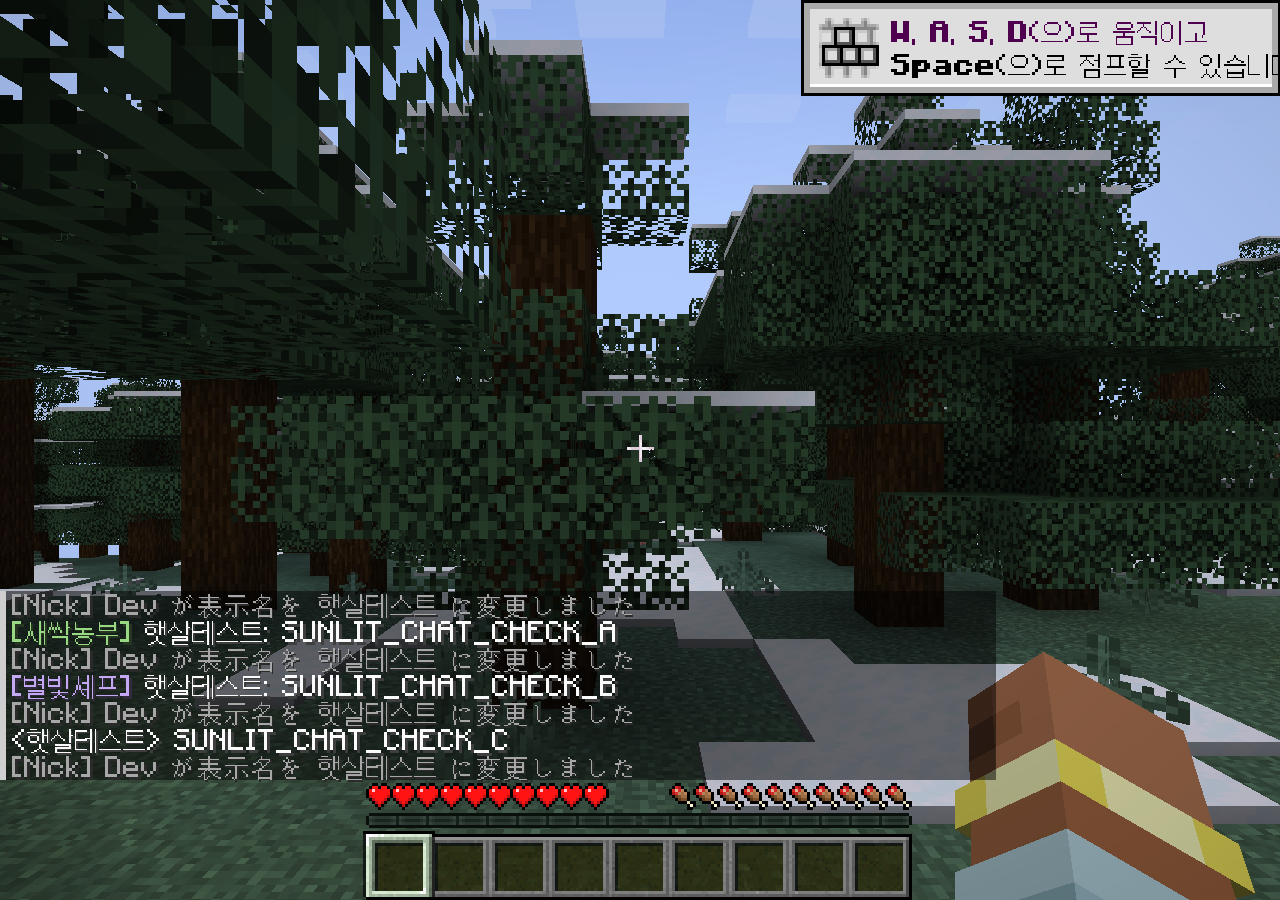
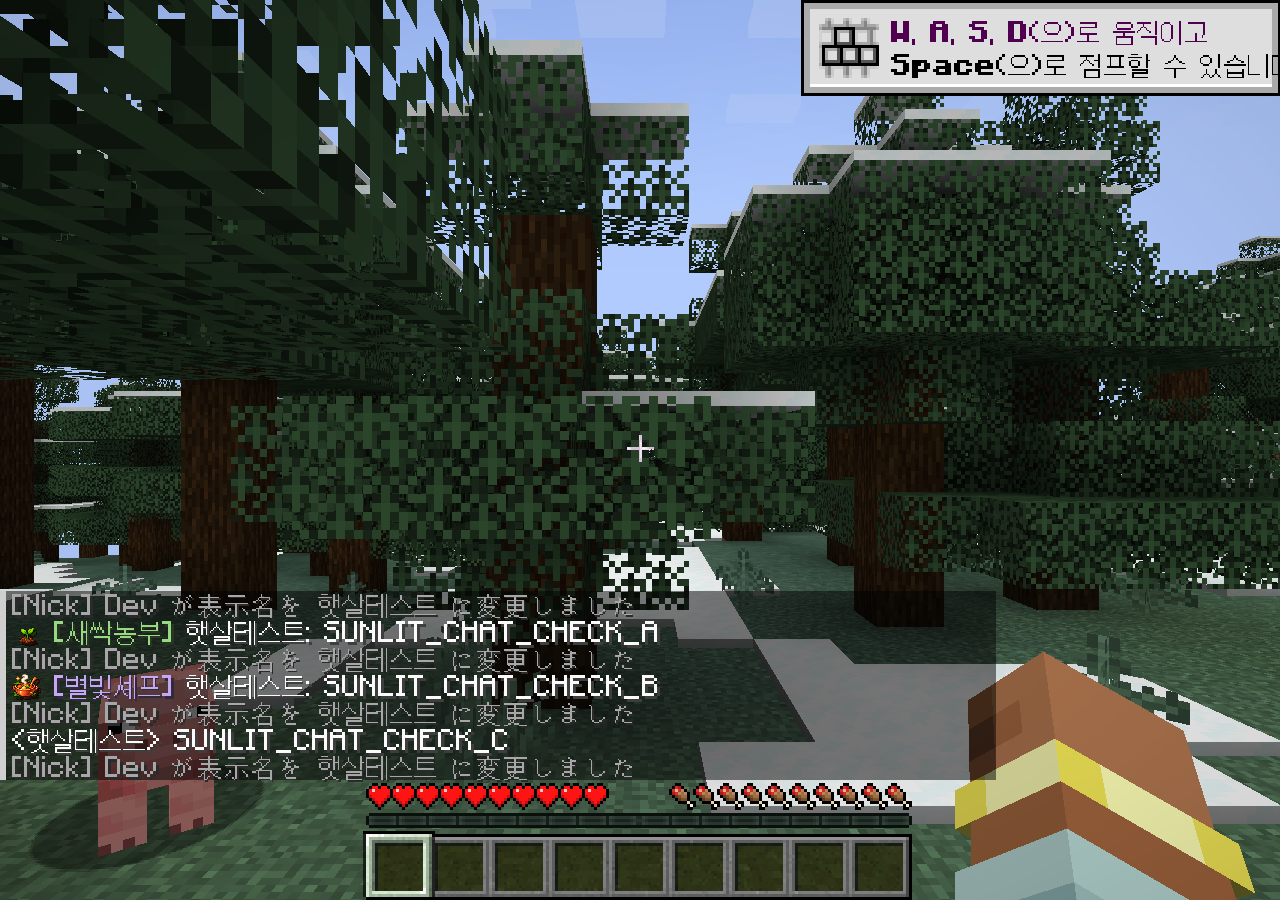
Show equipped title artwork in chat with distinct progression tier badges

diff --git a/tools/visual-preview/ChatTierCheck.java b/tools/visual-preview/ChatTierCheck.java
@@ -1,0 +1,64 @@
+package dev.sunlit.journal;
+
+import net.minecraft.client.*;
+import net.minecraft.client.gui.components.Button;
+import net.minecraft.client.gui.screens.ChatScreen;
+import net.minecraft.network.chat.*;
+import net.minecraftforge.api.distmarker.Dist;
+import net.minecraftforge.fml.common.Mod;
+import net.minecraftforge.event.TickEvent;
+import net.minecraftforge.eventbus.api.SubscribeEvent;
+import net.minecraftforge.client.event.ClientChatReceivedEvent;
+import java.util.*;
+import java.util.concurrent.CompletableFuture;
+
+/** Test-world-only real equip/chat packet check, excluded from the release JAR. */
+@Mod.EventBusSubscriber(modid=SunlitJournal.MODID,value=Dist.CLIENT)
+public final class ChatTierCheck {
+    private static int phase,index,ticks;
+    private static long start;
+    private static CompletableFuture<Void> pending;
+    private static final Map<String,Integer> received=new HashMap<>();
+    private static void require(boolean ok,String reason){if(!ok)throw new IllegalStateException("CHAT_TIER_CHECK: "+reason);}
+    private static String token(String title){return "단계 확인 · "+title;}
+    @SubscribeEvent public static void chat(ClientChatReceivedEvent e){
+        if(!Boolean.getBoolean("sunlit.chatTierCheck"))return;
+        String plain=e.getMessage().getString();
+        for(String title:SunlitJournal.TITLES)if(plain.endsWith(token(title))){
+            require(plain.startsWith(TitleIcons.glyph(title)+" ["+title+"] 햇살테스트: "),"Wrong delivered title/nickname prefix");
+            final boolean[] image={false},color={false};
+            e.getMessage().visit((style,text)->{
+                if(text.contains(TitleIcons.glyph(title))&&style.getFont().equals(TitleIcons.FONT)&&style.getColor()!=null&&style.getColor().getValue()==0xFFFFFF)image[0]=true;
+                if(text.contains("["+title+"]")&&style.getColor()!=null&&style.getColor().getValue()==TitleThemes.color(title,true))color[0]=true;
+                return Optional.empty();
+            },Style.EMPTY);
+            require(image[0]&&color[0],"Image font or title color missing after network delivery");received.merge(title,1,Integer::sum);
+        }
+        if(plain.endsWith("칭호 해제 확인")){require(plain.startsWith("<햇살테스트>"),"Untitled nickname handler changed");require(plain.codePoints().noneMatch(c->c>=0xE200&&c<0xE21D),"Unequip retained artwork");received.merge("none",1,Integer::sum);}
+    }
+    @SubscribeEvent public static void label(net.minecraftforge.client.event.ScreenEvent.Render.Post e){
+        if(Boolean.getBoolean("sunlit.chatTierCheck")&&e.getScreen() instanceof ChatScreen)e.getGuiGraphics().drawString(Minecraft.getInstance().font,"채팅 배지 검증 · 전용 테스트 월드 · 실제 장착/채팅 패킷",8,8,0xFFFFE7A0,false);
+    }
+    private static void shot(Minecraft mc,String name){Screenshot.grab(new java.io.File(System.getProperty("sunlit.previewOutput","../validation")),name+".png",mc.getMainRenderTarget(),c->{});}
+    @SubscribeEvent public static void tick(TickEvent.ClientTickEvent e){
+        if(e.phase!=TickEvent.Phase.END||!Boolean.getBoolean("sunlit.chatTierCheck"))return;
+        if(start==0)start=System.currentTimeMillis();require(System.currentTimeMillis()-start<300000,"Timeout at "+phase+"/"+index);
+        var mc=Minecraft.getInstance();
+        if(mc.player==null){if(mc.screen!=null)for(var child:mc.screen.children())if(child instanceof Button b&&b.active&&b.getMessage().getString().equals("진행")){b.onPress();break;}return;}
+        if(mc.getSingleplayerServer()==null||mc.getOverlay()!=null)return;++ticks;mc.getToasts().clear();
+        switch(phase){
+            case 0 -> {if(ticks<30)return;mc.options.guiScale().set(3);mc.options.chatScale().set(1.0);mc.options.chatOpacity().set(1.0);mc.options.chatHeightFocused().set(1.0);mc.resizeDisplay();
+                pending=new CompletableFuture<>();var id=mc.player.getUUID();mc.getSingleplayerServer().execute(()->{try{var p=mc.getSingleplayerServer().getPlayerList().getPlayer(id);SunlitJournal.saveOwned(p,new LinkedHashSet<>(Arrays.asList(SunlitJournal.TITLES)));SunlitJournal.data(p).remove("equipped");Integrations.nick(p,"햇살테스트",false);pending.complete(null);}catch(Throwable t){pending.completeExceptionally(t);}});phase=1;ticks=0;}
+            case 1 -> {if(!pending.isDone())return;pending.join();mc.setScreen(new ChatScreen(""));JournalNetwork.CHANNEL.sendToServer(new JournalNetwork.Request("equip",SunlitJournal.TITLES[index]));phase=2;ticks=0;}
+            case 2 -> {if(ticks<10)return;mc.player.connection.sendChat(token(SunlitJournal.TITLES[index]));phase=3;ticks=0;}
+            case 3 -> {if(ticks<20)return;String title=SunlitJournal.TITLES[index];require(received.getOrDefault(title,0)==1,"Missing or duplicate chat for "+title);index++;
+                if(index==29||index<=24&&index%4==0){phase=4;ticks=0;}else {phase=1;ticks=0;}}
+            case 4 -> {if(ticks<12)return;String name=index==29?"seasons":new String[]{"farming","fishing","mining","cooking","ranching","wealth"}[index/4-1];shot(mc,"chat-tiers-"+name);
+                if(index<29){phase=1;ticks=0;}else{JournalNetwork.CHANNEL.sendToServer(new JournalNetwork.Request("equip",SunlitJournal.TITLES[28]));phase=5;ticks=0;}}
+            case 5 -> {if(ticks<10)return;mc.player.connection.sendChat("칭호 해제 확인");phase=6;ticks=0;}
+            case 6 -> {if(ticks<20)return;require(received.getOrDefault("none",0)==1,"Unequipped delivery missing/duplicated");shot(mc,"chat-tiers-unequipped");mc.options.guiScale().set(2);mc.resizeDisplay();phase=7;ticks=0;}
+            case 7 -> {if(ticks<15)return;shot(mc,"chat-tiers-scale2");com.mojang.logging.LogUtils.getLogger().info("CHAT_TIER_CHECK PASS: all 29 title images via actual equip and chat packets, 6 families x 4 tiers plus 5 seasonal titles, white bitmap icons and themed text, one delivery, unequip, GUI scales 2/3");phase=8;ticks=0;}
+            case 8 -> {if(ticks>10)mc.stop();}
+        }
+    }
+}

diff --git a/src/test/java/dev/sunlit/journal/JournalGameTests.java b/src/test/java/dev/sunlit/journal/JournalGameTests.java
@@ -190,12 +190,12 @@ public class JournalGameTests {
         d.putString("owned","새싹농부|별빛셰프");
         var body=net.minecraft.network.chat.Component.literal("안녕하세요").withStyle(net.minecraft.ChatFormatting.AQUA);
         var line=JournalChat.format(p,body).orElseThrow();
-        h.assertTrue(line.getString().equals("[새싹농부] "+p.getDisplayName().getString()+": 안녕하세요"),"Title/name/body order incorrect");
-        h.assertTrue(line.getSiblings().get(0).getStyle().getColor().getValue()==TitleThemes.color("새싹농부",true),"Chat title color missing");
+        h.assertTrue(line.getString().equals(TitleIcons.glyph("새싹농부")+" [새싹농부] "+p.getDisplayName().getString()+": 안녕하세요"),"Title/name/body order incorrect");
+        h.assertTrue(line.getSiblings().get(2).getStyle().getColor().getValue()==TitleThemes.color("새싹농부",true),"Chat title color missing");
         h.assertTrue(line.getSiblings().get(line.getSiblings().size()-1).getStyle().equals(body.getStyle()),"Title theme leaked into message body");
         h.assertTrue(body.getString().equals("안녕하세요"),"Formatting mutated original message");
         d.putString("equipped","별빛셰프");
-        h.assertTrue(JournalChat.format(p,body).orElseThrow().getString().startsWith("[별빛셰프]"),"New equipped title not used immediately");
+        h.assertTrue(JournalChat.format(p,body).orElseThrow().getString().startsWith(TitleIcons.glyph("별빛셰프")+" [별빛셰프]"),"New equipped title not used immediately");
         d.remove("equipped");h.assertTrue(JournalChat.format(p,body).isEmpty(),"Unequipped title still displayed");h.succeed();
     }
 
@@ -250,7 +250,7 @@ public class JournalGameTests {
                 try{
                     Integrations.nick(p,"햇살테스트",false);
                     var formatted=JournalChat.format(p,net.minecraft.network.chat.Component.literal("안녕!")).orElseThrow();
-                    h.assertTrue(formatted.getString().equals("[새싹농부] 햇살테스트: 안녕!"),"Actual nickname not retained in themed chat");
+                    h.assertTrue(formatted.getString().equals(TitleIcons.glyph("새싹농부")+" [새싹농부] 햇살테스트: 안녕!"),"Actual nickname not retained in themed chat");
                     var event=new net.minecraftforge.event.ServerChatEvent(p,"안녕!",net.minecraft.network.chat.Component.literal("안녕!"));
                     net.minecraftforge.common.MinecraftForge.EVENT_BUS.post(event);
                     h.assertTrue(event.isCanceled(),"Titled chat fell through to duplicate nickname handler");
@@ -376,6 +376,30 @@ public class JournalGameTests {
         h.assertTrue(copied.getString("equipped").equals("벚꽃요정")&&copied.getLong("extra")==100,"Clone lost valid equip or unrelated record");
         var saved=copied.copy();replacement.getPersistentData().put("SunlitJournalTitles",saved.copy());h.assertTrue(SunlitJournal.data(replacement).equals(saved),"Reload changed migrated titles");
         h.assertTrue(original.getPersistentData().getCompound("SunlitJournalTitles").getString("owned").equals("벚꽃요정"),"Original retained retired records after clone");h.succeed();
+    }
+
+    @GameTest(template="empty") public static void chatArtworkSurvivesComponentNetworkCodec(GameTestHelper h){
+        var p=player(h);SunlitJournal.saveOwned(p,new LinkedHashSet<>(Arrays.asList(SunlitJournal.TITLES)));
+        var assets=new HashSet<String>();var glyphs=new HashSet<String>();
+        for(String title:SunlitJournal.TITLES){
+            SunlitJournal.data(p).putString("equipped",title);var body=net.minecraft.network.chat.Component.literal("그림 채팅").withStyle(net.minecraft.ChatFormatting.AQUA);
+            var line=JournalChat.format(p,body).orElseThrow();var buf=new FriendlyByteBuf(Unpooled.buffer());
+            try{buf.writeComponent(line);var decoded=buf.readComponent();
+                h.assertTrue(decoded.getString().startsWith(TitleIcons.glyph(title)+" ["+title+"] "),"Title image or text lost during network encoding");
+                var icon=decoded.getSiblings().get(0);h.assertTrue(icon.getStyle().getFont().equals(TitleIcons.FONT)&&icon.getStyle().getColor().getValue()==0xFFFFFF,"Image font lost or title tint applied to artwork");
+                h.assertTrue(!decoded.getSiblings().get(decoded.getSiblings().size()-1).getStyle().getFont().equals(TitleIcons.FONT),"Image font leaked into message");
+                h.assertTrue(body.getString().equals("그림 채팅"),"Decoration mutated message");
+            }finally{buf.release();}
+            assets.add(TitleIcons.asset(title));glyphs.add(TitleIcons.glyph(title));
+        }
+        h.assertTrue(assets.size()==29&&glyphs.size()==29,"Some titles share a tier image or glyph");h.succeed();
+    }
+    @GameTest(template="empty") public static void equippedTierImmediatelyChangesChatArtwork(GameTestHelper h){
+        var p=player(h);SunlitJournal.saveOwned(p,new LinkedHashSet<>(Arrays.asList(SunlitJournal.TITLES)));var images=new HashSet<String>();
+        for(int i=0;i<4;i++){String name=SunlitJournal.TITLES[i];SunlitJournal.data(p).putString("equipped",name);var line=JournalChat.format(p,net.minecraft.network.chat.Component.literal("단계 변경")).orElseThrow();images.add(line.getSiblings().get(0).getString());}
+        h.assertTrue(images.size()==4,"Equipped tier did not change image");
+        SunlitJournal.data(p).remove("equipped");h.assertTrue(JournalChat.format(p,net.minecraft.network.chat.Component.literal("해제")).isEmpty(),"Unequipped player still had an image");
+        SunlitJournal.saveOwned(p,Set.of("새싹농부"));SunlitJournal.data(p).putString("equipped","풍년지기");h.assertTrue(JournalChat.format(p,net.minecraft.network.chat.Component.literal("미획득")).isEmpty(),"Unowned tier image accepted");h.succeed();
     }
 
 }

diff --git a/tools/visual-preview/JournalInputChatCheck.java b/tools/visual-preview/JournalInputChatCheck.java
@@ -61,11 +61,13 @@ public final class JournalInputChatCheck {
     private static void received(String token,String prefix,String title){
         var list=RECEIVED.getOrDefault(token,List.of());
         require(list.size()==1,"Expected one chat delivery for "+token+", got "+list.size());
-        var component=list.get(0);require(component.getString().startsWith(prefix),"Unexpected chat prefix: "+component.getString());
+        var component=list.get(0);require(component.getString().startsWith((title.isEmpty()?"":TitleIcons.glyph(title)+" ")+prefix),"Unexpected chat prefix: "+component.getString());
         if(!title.isEmpty()){
             final boolean[] found={false};
             component.visit((style,text)->{if(text.contains(title)&&style.getColor()!=null&&style.getColor().getValue()==TitleThemes.color(title,true))found[0]=true;return Optional.empty();},net.minecraft.network.chat.Style.EMPTY);
             require(found[0],"Title color missing after real network delivery");
+            final boolean[] image={false};component.visit((style,text)->{if(text.contains(TitleIcons.glyph(title))&&style.getFont().equals(TitleIcons.FONT)&&style.getColor()!=null&&style.getColor().getValue()==0xFFFFFF)image[0]=true;return Optional.empty();},net.minecraft.network.chat.Style.EMPTY);
+            require(image[0],"Title image missing after real network delivery");
         }
     }
     @SubscribeEvent public static void tick(TickEvent.ClientTickEvent event)throws ReflectiveOperationException {
@@ -112,7 +114,7 @@ public final class JournalInputChatCheck {
             case 11 -> {
                 if(ticks<25)return;require(RECEIVED.getOrDefault(TOKENS[3],List.of()).isEmpty(),"Pre-cancelled chat was published");
                 if(mc.screen!=null)mc.screen.onClose();
-                com.mojang.logging.LogUtils.getLogger().info("SUNLIT_INPUT_CHAT_CHECK PASS: air gesture, block/entity exclusions, rebindable key, real profile snapshots, one chat delivery, nickname, title change/unequip, network colors and prior-cancellation handling");
+                com.mojang.logging.LogUtils.getLogger().info("SUNLIT_INPUT_CHAT_CHECK PASS: air gesture, block/entity exclusions, rebindable key, real profile snapshots, one chat delivery, nickname, title change/unequip, network colors, title images and prior-cancellation handling");
                 phase=12;ticks=0;
             }
             case 12 -> {

diff --git a/tools/build_title_badges.py b/tools/build_title_badges.py
@@ -1,0 +1,29 @@
+"""Extract the authored tier atlas and register inline chat bitmap glyphs.
+Only mechanical cropping, padding and nearest-neighbour sizing are applied.
+"""
+from pathlib import Path
+from PIL import Image
+import json
+root=Path(__file__).resolve().parents[1]
+assets=root/'src/main/resources/assets/sunlit_journal_core'
+out=assets/'textures/gui/title_badges';out.mkdir(parents=True,exist_ok=True)
+im=Image.open(root/'tools/art-sources/title-tier-badges.png').convert('RGBA')
+fields=['farming','fishing','mining','cooking','ranching','wealth']
+rows=[(0,280),(280,520),(520,746),(746,1024)]
+for row,(top,bottom) in enumerate(rows):
+ for col,name in enumerate(fields):
+  tile=im.crop((col*im.width//6,top,(col+1)*im.width//6,bottom))
+  side=max(tile.size);square=Image.new('RGBA',(side,side));square.paste(tile,((side-tile.width)//2,(side-tile.height)//2))
+  square.resize((256,256),Image.Resampling.NEAREST).save(out/(name+'_'+str(row+1)+'.png'))
+names=[name+'_'+str(tier) for name in fields for tier in range(1,5)]
+for name in ['four_seasons','spring','summer','autumn','winter']:
+ im=Image.open(assets/'textures/gui/illustrations'/(name+'.png'));im.save(out/(name+'.png'));names.append(name)
+# Pack small glyphs into one bitmap sheet so chat does not need 29 full-size font textures.
+chat=Image.new('RGBA',(256,128))
+for i,name in enumerate(names):
+ tile=Image.open(out/(name+'.png')).resize((32,32),Image.Resampling.NEAREST)
+ chat.paste(tile,((i%8)*32,(i//8)*32))
+chat_path=assets/'textures/font/title_chat_badges.png';chat_path.parent.mkdir(parents=True,exist_ok=True);chat.save(chat_path)
+chars=[chr(0xE200+i) for i in range(len(names))]+['\x00']*(32-len(names))
+font=assets/'font/chat_titles.json';font.parent.mkdir(parents=True,exist_ok=True)
+font.write_text(json.dumps({'providers':[{'type':'bitmap','file':'sunlit_journal_core:font/title_chat_badges.png','height':9,'ascent':8,'chars':[''.join(chars[i:i+8]) for i in range(0,32,8)]}]},ensure_ascii=False,indent=2)+'\n')

diff --git a/src/main/java/dev/sunlit/journal/TitleIcons.java b/src/main/java/dev/sunlit/journal/TitleIcons.java
@@ -1,0 +1,25 @@
+package dev.sunlit.journal;
+
+import java.util.Arrays;
+import net.minecraft.network.chat.Component;
+import net.minecraft.network.chat.HoverEvent;
+import net.minecraft.network.chat.MutableComponent;
+import net.minecraft.resources.ResourceLocation;
+
+/** Server-safe title artwork keys and bitmap-font glyphs. No changes to title ownership or tiers. */
+public final class TitleIcons {
+    private TitleIcons() {}
+    public static final ResourceLocation FONT=new ResourceLocation(SunlitJournal.MODID,"chat_titles");
+    private static final String[] FIELDS={"farming","fishing","mining","cooking","ranching","wealth"};
+    private static final String[] SEASONS={"four_seasons","spring","summer","autumn","winter"};
+    private static int index(String title){return Arrays.asList(SunlitJournal.TITLES).indexOf(title);}
+    public static String asset(String title){int i=index(title);return i<0?"":i<24?FIELDS[i/4]+"_"+(i%4+1):SEASONS[i-24];}
+    public static String glyph(String title){int i=index(title);return i<0?"":Character.toString(0xE200+i);}
+    public static int tier(String title){int i=index(title);return i>=0&&i<24?i%4+1:0;}
+    public static ResourceLocation texture(String title){return new ResourceLocation(SunlitJournal.MODID,"textures/gui/title_badges/"+asset(title)+".png");}
+    public static MutableComponent icon(String title){
+        String hint=title+(tier(title)>0?" · "+tier(title)+"단계":"");
+        return Component.literal(glyph(title)).withStyle(s->s.withFont(FONT).withColor(0xFFFFFF).withBold(false).withItalic(false)
+            .withHoverEvent(new HoverEvent(HoverEvent.Action.SHOW_TEXT,Component.literal(hint))));
+    }
+}

diff --git a/src/main/java/dev/sunlit/journal/JournalScreen.java b/src/main/java/dev/sunlit/journal/JournalScreen.java
@@ -311,6 +311,12 @@ public final class JournalScreen extends Screen {
         com.mojang.blaze3d.systems.RenderSystem.disableBlend();
     }
     private void icon(GuiGraphics g,int index,int x,int y){art(g,index,x,y,28);}
+    private void cardArt(GuiGraphics g,Card c,int x,int y,int size){
+        if(!TitleThemes.known(c.title)){art(g,c.icon,x,y,size);return;}
+        com.mojang.blaze3d.systems.RenderSystem.enableBlend();
+        g.blit(TitleIcons.texture(c.title),x,y,size,size,0,0,256,256,256,256);
+        com.mojang.blaze3d.systems.RenderSystem.disableBlend();
+    }
     @Override public void render(GuiGraphics g,int mx,int my,float delta){
         renderBackground(g);
         rounded(g,left+3,top+4,panelWidth,panelHeight,15,0x803E353D);
@@ -355,8 +361,8 @@ public final class JournalScreen extends Screen {
             g.fill(x+2,y+5,x+5,y+c.height-5,accents[Math.max(0,Math.min(c.icon,accents.length-1))]);
             if(c.illustrated){
                 rounded(g,x+9,y+8,c.artSize+4,c.artSize+4,3,0xFFF0DFBA);
-                art(g,c.icon,x+11,y+10,c.artSize);
-            }else icon(g,c.icon,x+10,y+10);
+                cardArt(g,c,x+11,y+10,c.artSize);
+            }else cardArt(g,c,x+10,y+10,28);
             if(c.section){
                 int textY=y+10;
                 for(var line:c.heading){g.drawString(font,line,x+47,textY,TEXT,false);textY+=lineStep;}

diff --git a/src/main/java/dev/sunlit/journal/JournalNetwork.java b/src/main/java/dev/sunlit/journal/JournalNetwork.java
@@ -12,7 +12,7 @@ import net.minecraftforge.network.simple.SimpleChannel;
 import java.util.*;
 
 public final class JournalNetwork {
-    public static final SimpleChannel CHANNEL=NetworkRegistry.newSimpleChannel(new ResourceLocation(SunlitJournal.MODID,"journal"),()->"journal-9", "journal-9"::equals,"journal-9"::equals);
+    public static final SimpleChannel CHANNEL=NetworkRegistry.newSimpleChannel(new ResourceLocation(SunlitJournal.MODID,"journal"),()->"journal-10", "journal-10"::equals,"journal-10"::equals);
     private static final Map<UUID,Long> WATCHING=new HashMap<>(), LAST=new HashMap<>(), HEARTBEATS=new HashMap<>();
     private static final Set<String> PAGES=Set.of("profile","skills","quests","achievements","titles");
     public record Request(String action,String value){

diff --git a/src/main/java/dev/sunlit/journal/JournalChat.java b/src/main/java/dev/sunlit/journal/JournalChat.java
@@ -24,7 +24,7 @@ public final class JournalChat {
         return player.getDisplayName().copy();
     }
     static Optional<Component> format(ServerPlayer player,Component message){
-        return equipped(player).map(title->Component.empty().append(TitleThemes.badge(title)).append(" ")
+        return equipped(player).map(title->Component.empty().append(TitleIcons.icon(title)).append(" ").append(TitleThemes.badge(title)).append(" ")
             .append(nickname(player)).append(Component.literal(": ").withStyle(s->s.withColor(0xFFFFFF))).append(message.copy()));
     }
     // Server Nick 1.2.0 cancels and broadcasts at NORMAL. Run before it so a titled

diff --git a/CHAT_TITLE_IMAGES_0.8.5.md b/CHAT_TITLE_IMAGES_0.8.5.md
@@ -1,0 +1,44 @@
+# 0.8.5-journal · 장착 칭호의 채팅 이미지와 단계별 그림
+
+현재 장착한 대표 칭호에 맞는 작은 그림을 채팅 닉네임 앞에 표시합니다.
+
+`그림 [색상이 적용된 칭호] 닉네임: 채팅 내용`
+
+칭호를 바꾸면 해당 그림으로 바뀌고, 해제하면 그림과 칭호 접두사가 함께 사라집니다. 미획득 칭호의 이미지가 표시되지 않도록 기존 서버 소유 검사를 유지합니다. 최상위 칭호를 보유했더라도 하위 칭호를 직접 장착하면 장착한 하위 단계의 그림이 표시됩니다.
+
+## 단계별 이미지
+
+기존 농사·낚시·채광·요리·목축·자산 6개 분야의 칭호 4단계에 각각 다른 그림을 배정했습니다. 단순 색상 변경 대신 소품·실루엣·장식이 성장합니다.
+
+| 분야 | 1단계 | 2단계 | 3단계 | 4단계 |
+|---|---|---|---|---|
+| 농사 | 새싹 | 밀 이삭 | 밀·꽃·물방울 | 왕관 수확 바구니 |
+| 낚시 | 작은 물고기 | 뛰어오르는 물고기 | 물고기·진주·물결 | 왕관 물고기·월계수 |
+| 채광 | 돌·곡괭이 | 보라 수정·곡괭이 | 여러 보석·곡괭이 | 금빛 별 테두리의 큰 수정 |
+| 요리 | 수프 그릇·숟가락 | 구리 냄비 | 풍성한 채소 요리 | 금장식 냄비 |
+| 목축 | 송아지 | 종·클로버의 소 | 꽃에 둘러싸인 소 | 왕관·꽃 화관의 소 |
+| 자산 | 동전 | 동전 주머니 | 보물 상자 | 왕관·보석 장식 상자 |
+
+사계요정은 기존 네 계절 요정 그림, 봄·여름·가을·겨울 칭호는 각 계절 그림을 사용합니다. 이 5종에 임의의 단계를 새로 만들지 않았습니다. 총 29개 칭호에 각각 대응하는 그림/폰트 문자가 있습니다. 칭호 도감과 업적 도감의 표식도 동일한 단계별 그림을 사용합니다.
+
+## 적용 범위
+
+- 이미지용 글꼴을 별도로 사용하므로 닉네임·메시지의 기존 글꼴과 색을 바꾸지 않습니다. 이미지에는 칭호 글자색이 덧씌워지지 않습니다. 기본 채팅 줄 높이에 맞춘 9픽셀 높이 배지입니다.
+- 게임 리소스에 글꼴과 이미지를 포함하므로 별도 리소스팩 설치가 필요하지 않습니다. 채팅 창에서 그림에 마우스를 올리면 칭호와 단계를 볼 수 있습니다.
+- 프로토콜은 `journal-10`입니다. 폰트 리소스가 없는 구버전 클라이언트에서 깨진 문자가 보이지 않도록 서버와 클라이언트를 함께 0.8.5로 교체해야 합니다.
+- 획득 조건·진행도·보상·기존 데이터는 바꾸지 않았습니다. 이전 하늘섬 칭호 2종 제거 정책도 유지합니다.
+- 새 제작 시트는 `tools/art-sources/title-tier-badges.png`이며 게임 화면이 아닙니다. `tools/build_title_badges.py`가 기계적으로 추출한 256×256 그림 29개와 채팅용 32픽셀 셀의 작은 폰트 시트를 생성합니다.
+
+## 이번 버전 검증
+
+- 빌드 성공, 제공된 실제 연동 모드 3개를 로드한 서버 GameTest 33개 전부 통과. 29개 칭호 이미지/테마 색의 채팅 컴포넌트 직렬화·역직렬화, 장착 단계 변경, 해제/미획득 상태의 이미지 미표시를 포함합니다.
+- 실제 Minecraft 클라이언트와 전용 통합 서버에서 29개 칭호를 실제 장착 패킷으로 바꾸고 채팅을 전송했습니다. 각 이미지·색·닉네임·단계·1회 전달과 해제를 확인했습니다. GUI 2/3 촬영을 포함합니다.
+- 기존 입력·채팅 통합 검사도 다시 통과했습니다. 쉬프트 허공 우클릭/단축키·프로필 수신·닉네임·칭호 변경/해제·채팅 중복 방지·선행 채팅 취소를 확인했습니다.
+- `chat-tiers-*.png`는 **실제 장착/채팅 패킷을 사용해 Minecraft에서 촬영한 화면**입니다. 전용 테스트 월드에서 미리 칭호 소유 상태를 준비했고 테스트 도구가 메시지를 보냈습니다. 모든 칭호를 정상 플레이로 달성했다는 의미는 아닙니다. 전체 사용자 모드팩·인터넷 멀티플레이 검증과 구분합니다.
+- 테스트 도구와 대체 아이템은 배포 JAR에 포함하지 않습니다.
+
+```sh
+./gradlew -PintegrationMods=true -PintegrationModDir=/path/to/mods -I tools/visual-preview/chat-tier-check.gradle runClient
+```
+
+위 도구는 실제 플레이 월드에서 사용하지 마세요. 검사 전용 `SunlitInputTest` 월드의 칭호·닉네임을 변경합니다.

diff --git a/README_JOURNAL_ONLY.md b/README_JOURNAL_ONLY.md
@@ -1,4 +1,4 @@
-# Sunlit Journal 0.8.4-journal · Forge 1.20.1
+# Sunlit Journal 0.8.5-journal · Forge 1.20.1
 
 수첩 전용 버전입니다. main 4cedc92에서 분기했으며 preview/sakura-reference의 스킨 변경은 합치지 않았습니다.
 
@@ -33,7 +33,7 @@
 - 기존 장비는 바닐라 외형으로 보이지만 아이템·내구도·인챈트·이름·저장 태그는 보존합니다. 구버전 리소스팩을 별도로 적용하면 그 리소스팩의 외형이 보일 수 있습니다.
 - 예전 차원 안에서 저장한 플레이어는 로그인 시 기존 귀환 정보 또는 오버월드로 복귀합니다. 신규 맵 생성·입장 경로는 없습니다.
 - 이전 하늘섬 칭호 ‘구름 위의 손님’·‘하늘 정원의 수호자’는 제거했습니다. 업데이트 후 플레이어가 접속하거나 칭호 데이터가 로드될 때 두 칭호의 보유 기록을 정리하고, 장착 중이었다면 해제합니다. 다른 칭호·업무·보상은 보존합니다.
-- 네트워크 프로토콜 `journal-9`이므로 서버·클라이언트를 함께 교체하세요. 기존 Sunlit JAR와 동시 설치하지 마세요. 월드 복사본에서 먼저 업그레이드를 확인하세요.
+- 네트워크 프로토콜 `journal-10`이므로 서버·클라이언트를 함께 교체하세요. 기존 Sunlit JAR와 동시 설치하지 마세요. 월드 복사본에서 먼저 업그레이드를 확인하세요.
 
 ## 빌드·검증
 JDK 17과 Gradle Wrapper를 사용합니다.

diff --git a/README.md b/README.md
@@ -1,6 +1,6 @@
 # Sunlit Journal
 
-Forge 1.20.1용 수첩 전용 0.8.4-journal 개발 버전입니다.
+Forge 1.20.1용 수첩 전용 0.8.5-journal 개발 버전입니다.
 프로필 / 생활 기술 / 업무 일지 / 업적 도감 / 칭호 도감의 다섯 탭을 제공합니다.
 
 현재 버전의 기능·보상·구버전 데이터 호환·빌드는 [README_JOURNAL_ONLY.md](README_JOURNAL_ONLY.md), 검증 결과와 한계는 [JOURNAL_VALIDATION.md](JOURNAL_VALIDATION.md)를 참고하세요.
@@ -14,3 +14,5 @@ main 0.7.0의 스킨 공방·뽑기·뽑기권 보너스는 이 버전에서 제
 0.8.3: 업적 도감의 사계요정과 자산 분야 삽화를 교체했습니다. [그림 변경과 검증](ACHIEVEMENT_ART_0.8.3.md)을 참고하세요.
 
 0.8.4: 이전 하늘섬 칭호 2종을 도감·보유·장착 기록에서 제거합니다. [정리 범위와 업그레이드](REMOVED_SKY_TITLES_0.8.4.md)를 참고하세요.
+
+0.8.5: 장착 칭호의 그림을 채팅에 표시하고, 6개 분야의 칭호 4단계를 서로 다른 그림으로 구분합니다. [채팅 이미지와 검증](CHAT_TITLE_IMAGES_0.8.5.md)을 참고하세요.

diff --git a/tools/visual-preview/README.md b/tools/visual-preview/README.md
@@ -1,3 +1,5 @@
+0.8.5: `chat-tier-check.gradle`은 전용 월드에서 29개 칭호를 실제 장착·채팅 패킷으로 검사합니다. 소유 상태를 테스트용으로 준비하며 실제 월드에서 사용하지 마세요.
+
 0.8.1: `art-preview.gradle`은 생활 분야 8종·계절 4종·대기/완료/작은 GUI 상태 4종을 개별 촬영합니다. 모두 실제 게임 렌더러 + 예시 데이터이며 `ILLUSTRATIONS_0.8.1.md`를 참고하세요.
 
 # 0.8.0-journal 현재 검사
